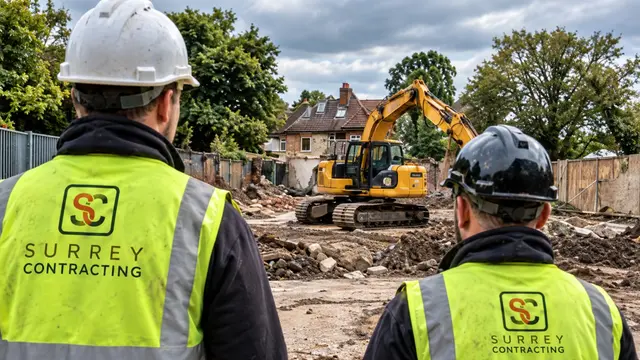
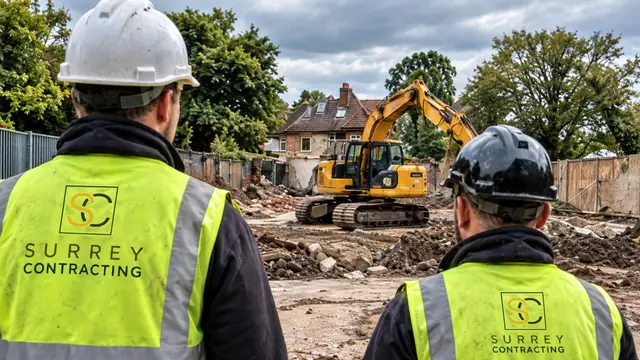
Replace 7 H&S and Site Enabling images with brand-corrected versions
Swaps in the approved v2 exports, keeping repo filenames: the
/health-safety hero, training-supervision and inspection-checklist
images, and the /site-enabling-works excavator (also the /services
card), demolition, crushing and cleared-site images. These carry the
corrected SC monogram; the inspection image now shows a generic blank
site inspection form with no company record or claims.

Each pair was checked against the live file (same scene and aspect).
Dimensions are unchanged, so servicePages.ts and alt text are untouched.
WebP via Pillow with metadata stripped: 1920 hero at q66, -1280 and -640
variants at q72; only the existing variant set was regenerated.

Claude-Session: https://claude.ai/code/session_01EGW5qQRM2WPSYT4cUQ4kK2

Changed region(s): [[0.0625, 0.4889, 0.1875, 0.6722], [0.7812, 0.7944, 0.875, 0.9472]]

diff --git a/tasks/todo.md b/tasks/todo.md
@@ -2043,3 +2043,20 @@ redirects; no /lp/* changes.
   131 /assets/img/services/ URLs in dist with 0 missing; the width/height
   of all 33 replaced images match their files; 1440 and 375 screenshots
   show 0 broken images and no horizontal scroll.
+
+### Brand-corrected H&S and Site Enabling images (14 Oct 2026)
+- [x] Ed's approved 7 replaced from the v2 pack, keeping repo filenames:
+      H&S hero (1920 + -1280 + -640), training-supervision, inspection-checklist
+      (now a generic blank site inspection form, no company record or claims);
+      site-enabling excavator (also the /services card), demolition, crushing,
+      cleared-site (-1280 + -640). Corrected SC monogram on the hi-vis/plant.
+- [x] Each pair checked against the live file: same scene and aspect
+      (grey correlation 0.985-0.9997). Dimensions unchanged, so no
+      servicePages.ts edits; alt text unchanged and still accurate.
+- Held back for supplier rework: the 9 unchanged v2 exports, plus the
+  site-enabling hero, H&S planning-cdm and H&S supervision (approach-main).
+- Encoding: Pillow WebP, metadata stripped, LANCZOS, no upscaling; 1920 hero
+  q66, -1280/-640 q72. Existing variant sets only (15 files).
+- Evidence: build exit 0, four guards passed; six-page check passed; 140
+  /assets/img/services/ URLs in dist with 0 missing; w/h match for all 7;
+  1440/375 screenshots show 0 broken images and no horizontal scroll.
